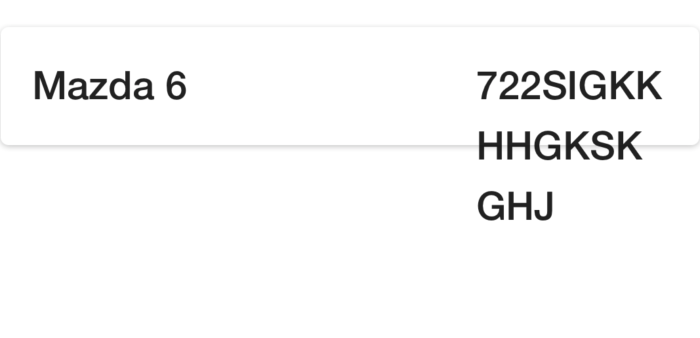
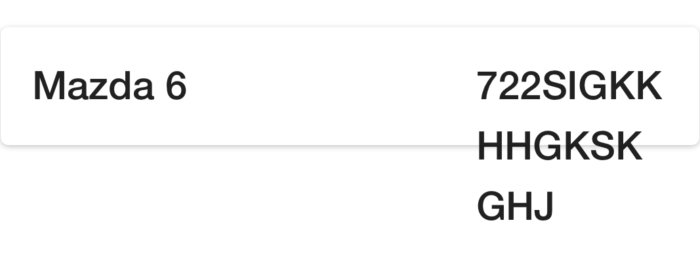
added images

Changed region(s): [[0.0, 0.1868, 0.99, 0.6537], [0.66, 0.7471, 0.81, 0.8716]]

diff --git a/React_Native/ellipsis_on_text.md b/React_Native/ellipsis_on_text.md
@@ -4,10 +4,12 @@ in `React Native` We can use the [`numberOfLines`](https://facebook.github.io/re
 This will truncate the text with an ellipsis after computing the text layout, including line wrapping, such that the total number of lines does not exceed this number.
 
 Before:
+
 ![alt text](./img/overhang.png "text too long")
 
 After:
-![alt text](./img/elipsis.png "text too long")
+
+![alt text](./img/ellipsis.png "text too long")
 
 
 Code:
